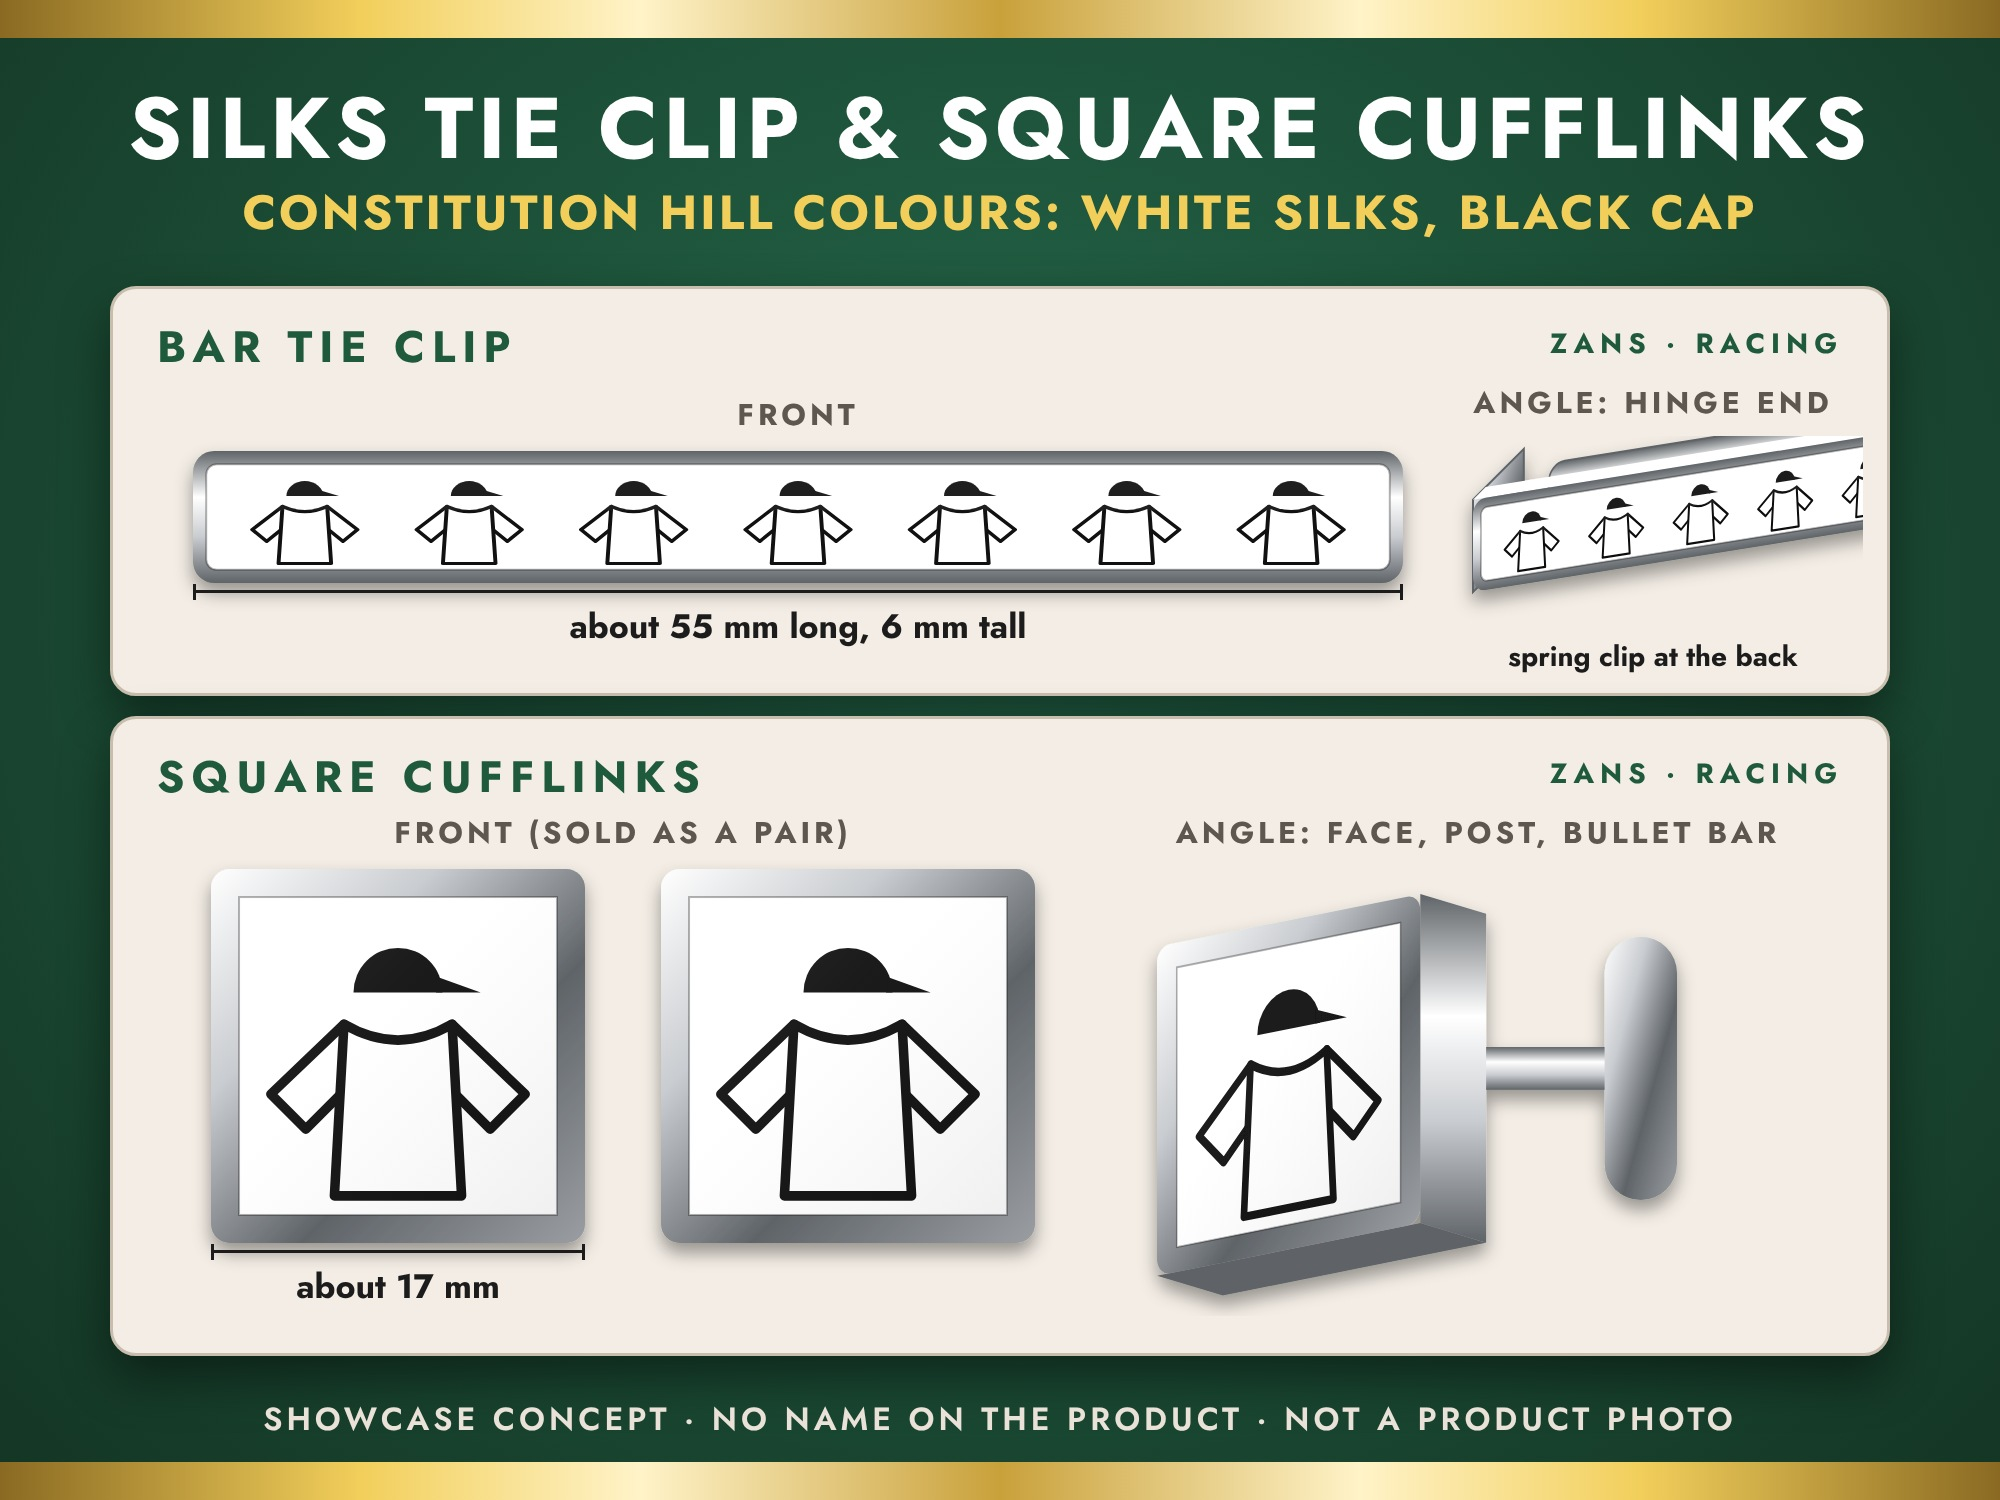
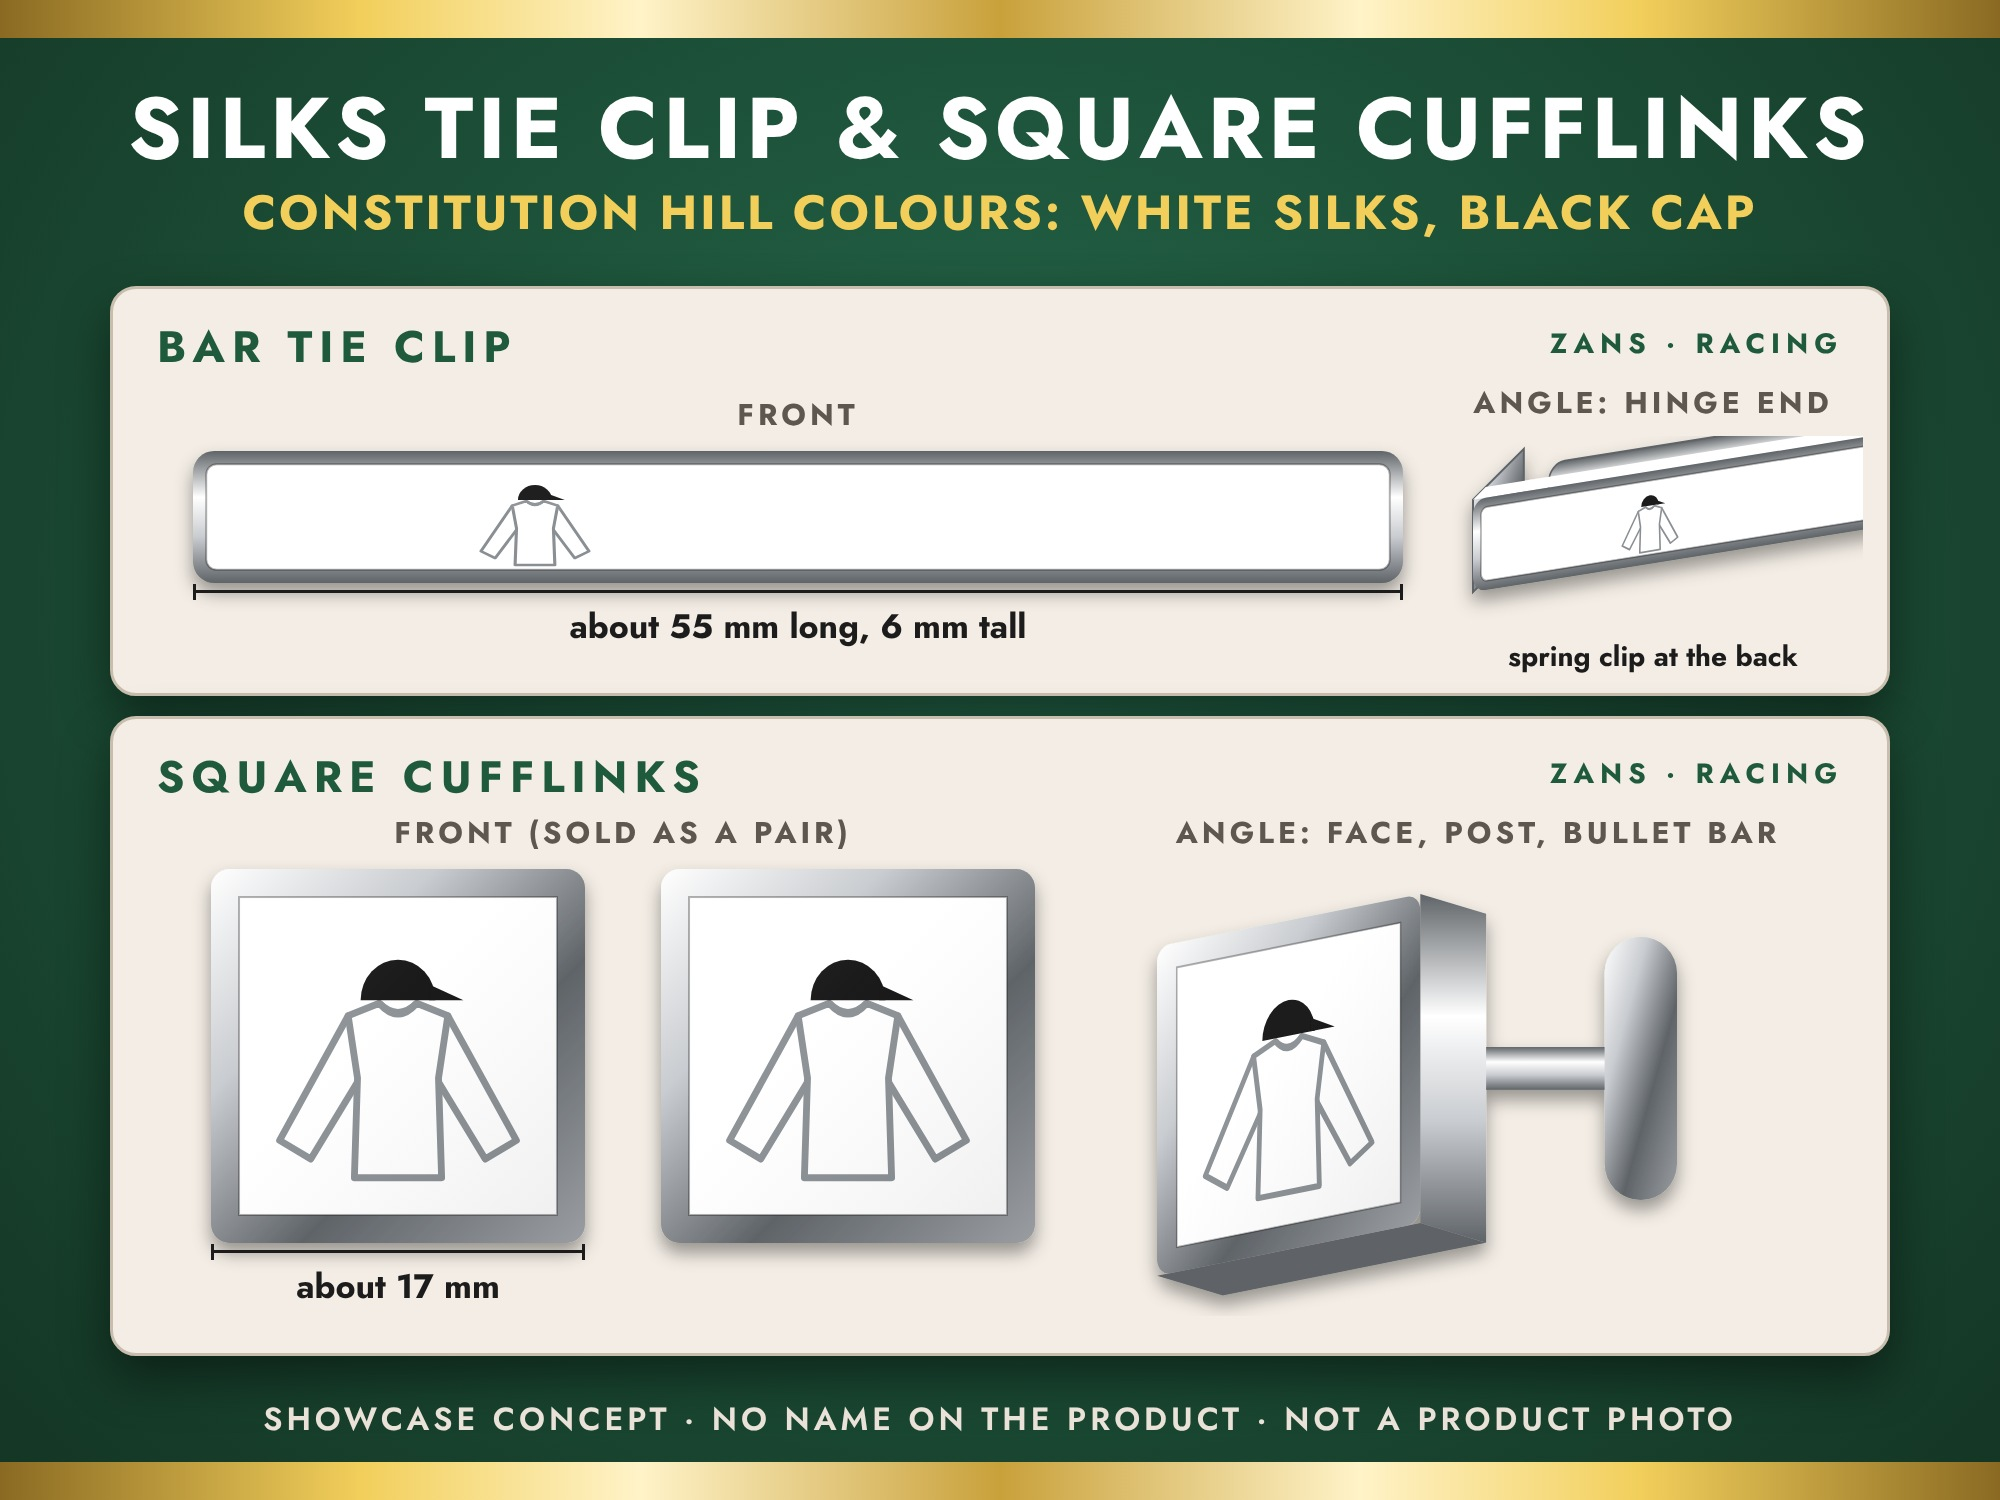
Constitution Hill motif redrawn as a long-sleeved silks jersey with skull cap; supplier sheet wording fixes
Claude-Session: https://claude.ai/code/session_012o9aG5DgvmXWZHsMc4KE4d

diff --git a/batch/2026-11-25/tie-pins-cufflinks/build_named.js b/batch/2026-11-25/tie-pins-cufflinks/build_named.js
@@ -12,7 +12,7 @@ const sq = { // square insert, 100 x 100
   diamonds: (a, b) => `<rect width="100" height="100" fill="${a}"/>` + [0, 1, 2, 3, 4].flatMap(r => [0, 1, 2, 3, 4].map(c => [c * 25 + (r % 2 ? 12.5 : 0), r * 25])).map(([x, y]) => `<path d="M${x} ${y - 11} L${x + 9} ${y} L${x} ${y + 11} L${x - 9} ${y} Z" fill="${b}"/>`).join(''),
   quartered: (a, b) => `<rect width="100" height="100" fill="${a}"/><rect width="50" height="50" fill="${b}"/><rect x="50" y="50" width="50" height="50" fill="${b}"/>`,
   bigspots: (a, b) => `<rect width="100" height="100" fill="${a}"/>` + [[25, 25], [75, 25], [50, 50], [25, 75], [75, 75], [0, 50], [100, 50], [50, 0], [50, 100]].map(([x, y]) => `<circle cx="${x}" cy="${y}" r="14" fill="${b}"/>`).join(''),
-  cap: (a, b) => `<rect width="100" height="100" fill="${a}"/><g fill="#fff" stroke="#111" stroke-width="3" stroke-linejoin="round"><path d="M33 40 L10 62 L21 73 L36 58 Z"/><path d="M67 40 L90 62 L79 73 L64 58 Z"/><path d="M33 40 Q50 50 67 40 L70 94 L30 94 Z"/></g><path d="M36 30 A14 14 0 0 1 64 30 Z" fill="#111"/><path d="M62 25 L76 30 L62 30 Z" fill="#111"/>`,
+  cap: (a, b) => `<rect width="100" height="100" fill="${a}"/><g transform="translate(50 54) scale(.98) translate(-50 -57)"><g fill="#fff" stroke="#8a8f94" stroke-width="2.2" stroke-linejoin="round"><path d="M34 40 L12 80 L22 86 L39 58 Z"/><path d="M66 40 L88 80 L78 86 L61 58 Z"/><path d="M34 40 L44 36 Q50 42 56 36 L66 40 L63 60 L64 92 L36 92 L37 60 Z"/><path d="M44 36 Q50 43 56 36" fill="none"/></g><path d="M38 35 A12 13 0 0 1 62 35 Z" fill="#111"/><path d="M60 30 L71 35 L60 35 Z" fill="#111"/></g>`,
   blank: () => `<rect width="100" height="100" fill="#f4f4f2"/>` };
 const bar = { // long bar face, 900 x 100: the same silks idea scaled to read on a slim bar
   stripes: (a, b) => `<rect width="900" height="100" fill="${a}"/><rect y="20" width="900" height="20" fill="${b}"/><rect y="60" width="900" height="20" fill="${b}"/>`,
@@ -22,9 +22,9 @@ const bar = { // long bar face, 900 x 100: the same silks idea scaled to read on
   diamonds: (a, b) => `<rect width="900" height="100" fill="${a}"/>` + [...Array(13)].map((_, i) => `<path d="M${i * 75} 12 L${i * 75 + 28} 50 L${i * 75} 88 L${i * 75 - 28} 50 Z" fill="${b}"/>`).join(''),
   quartered: (a, b) => `<rect width="900" height="100" fill="${a}"/><rect width="450" height="50" fill="${b}"/><rect x="450" y="50" width="450" height="50" fill="${b}"/>`,
   bigspots: (a, b) => `<rect width="900" height="100" fill="${a}"/>` + [...Array(10)].map((_, i) => `<circle cx="${45 + i * 90}" cy="50" r="27" fill="${b}"/>`).join(''),
-  cap: (a, b) => `<rect width="900" height="100" fill="${a}"/>` + [...Array(7)].map((_, i) => `<g transform="translate(${25 + i * 125} 0)"><g fill="#fff" stroke="#111" stroke-width="3" stroke-linejoin="round"><path d="M33 40 L10 62 L21 73 L36 58 Z"/><path d="M67 40 L90 62 L79 73 L64 58 Z"/><path d="M33 40 Q50 50 67 40 L70 94 L30 94 Z"/></g><path d="M36 30 A14 14 0 0 1 64 30 Z" fill="#111"/><path d="M62 25 L76 30 L62 30 Z" fill="#111"/></g>`).join(''),
+  cap: (a, b) => `<rect width="900" height="100" fill="${a}"/><g transform="translate(250 -4) scale(1.08 1.08) translate(-50 0)"><g fill="#fff" stroke="#8a8f94" stroke-width="2.2" stroke-linejoin="round"><path d="M34 40 L12 80 L22 86 L39 58 Z"/><path d="M66 40 L88 80 L78 86 L61 58 Z"/><path d="M34 40 L44 36 Q50 42 56 36 L66 40 L63 60 L64 92 L36 92 L37 60 Z"/><path d="M44 36 Q50 43 56 36" fill="none"/></g><path d="M38 35 A12 13 0 0 1 62 35 Z" fill="#111"/><path d="M60 30 L71 35 L60 35 Z" fill="#111"/></g>`,
   blank: () => `<rect width="900" height="100" fill="#f4f4f2"/>` };
-const D = [['L', 'bigspots', 'Lossiemouth colours: pink with green spots', '#F3B5C9', '#6CC24A'], ['F', 'hoops', 'Fact To File colours: green and gold hoops', '#0E8A4B', '#F2C40F'], ['C', 'cap', 'Constitution Hill colours: white silks, black cap', '#FFFFFF', '#111111']];
+const D = (process.argv[2] === 'C' ? [] : [['L', 'bigspots', 'Lossiemouth colours: pink with green spots', '#F3B5C9', '#6CC24A'], ['F', 'hoops', 'Fact To File colours: green and gold hoops', '#0E8A4B', '#F2C40F'], ['C', 'cap', 'Constitution Hill colours: white silks, black cap', '#FFFFFF', '#111111']]).concat(process.argv[2] === 'C' ? [['C', 'cap', 'Constitution Hill colours: white silks, black cap', '#FFFFFF', '#111111']] : []).filter((d, i, a) => a.findIndex(x => x[0] === d[0]) === i);
 let uid = 0; const defs = id => `<linearGradient id="${id}m" x1="0" y1="0" x2="1" y2="1"><stop offset="0" stop-color="${CH[2]}"/><stop offset=".3" stop-color="${CH[1]}"/><stop offset=".62" stop-color="${CH[0]}"/><stop offset="1" stop-color="${CH[3]}"/></linearGradient>
 <linearGradient id="${id}v" x1="0" y1="0" x2="0" y2="1"><stop offset="0" stop-color="${CH[0]}"/><stop offset=".35" stop-color="${CH[2]}"/><stop offset=".65" stop-color="${CH[1]}"/><stop offset="1" stop-color="${CH[0]}"/></linearGradient>
 <linearGradient id="${id}g" x1="0" y1="0" x2="1" y2="1"><stop offset="0" stop-color="#fff" stop-opacity=".12"/><stop offset=".4" stop-color="#fff" stop-opacity=".04"/><stop offset="1" stop-color="#000" stop-opacity=".06"/></linearGradient>

diff --git a/batch/2026-11-25/tie-pins-cufflinks/SUPPLIER-SHEET-PROPOSED.md b/batch/2026-11-25/tie-pins-cufflinks/SUPPLIER-SHEET-PROPOSED.md
@@ -5,20 +5,20 @@ Nothing ordered, no account opened, no spend. Every figure below needs checking 
 ## What we need from any supplier
 | Item | Our spec (from Alex's screenshots) | To confirm |
 |---|---|---|
-| Cufflinks | Square, polished chrome frame, flat printed square insert, bullet toggle back, sold as a pair | Outer size, printable insert size (mm and pixels), print method, gift box |
-| Tie clip | Slim silver bar with spring clip, printed front face end to end | Bar length and height, printable area, print method |
+| Cufflinks | Square, about 17 to 20 mm (PROPOSED), polished chrome frame, flat printed square insert, bullet toggle back, sold as a pair | Outer size, printable insert size (mm and pixels), print method, gift box |
+| Tie clip | Slim silver bar with spring clip, about 55 x 6 mm (PROPOSED), printed front face end to end | Bar length and height, printable area, print method |
 | Both | Full-colour print, no minimum order, UK made and UK posted | Unit price, UK postage, days to make, mock-up or template files, sample cost |
 
 ## Routes
 | Route | What it is | Seen in the search | Fits the rulebook? |
 |---|---|---|---|
 | A. Treatpod (UK print on demand) | The shop in Alex's cufflink screenshot. Prints and posts each order. | Not found in my search, so price and sizes UNKNOWN | Yes if UK made. Not Printify, so needs Alex's yes as a new provider. Do they do a bar tie clip? Unknown. |
-| B. Contrado (London) | Custom printed cufflinks, made to order in London | From about $29.95 a pair; artwork at 200 dpi | UK made. Price is high for our £-range. No tie clip seen. |
+| B. Contrado (London) | Custom printed cufflinks, made to order in London | Price UNVERIFIED (the search showed a US-dollar figure, $29.95; the UK £ price is not checked); artwork at 200 dpi | UK made. Price is high for our £-range. No tie clip seen. |
 | C. Buy blanks and print ourselves | Longforte: square chrome sublimation cufflink blanks with a printable aluminium insert | £2.25 ex VAT a pair | Cheapest, but Alex would need a sublimation printer and to make and post each one himself. Not print on demand. |
-| D. UK gift makers | e.g. a square photo cufflink and tie slide set | About £39.95 a set; cufflink 20 mm with an 18 mm insert | A finished retail product, not a supplier. Useful as a price and size guide only. |
+| D. UK gift makers | e.g. a square photo cufflink and tie slide set | About £39.95 a set; cufflink 20 mm with an 18 mm insert (PROPOSED, from one listing) | A finished retail product, not a supplier. Useful as a price and size guide only. |
 
 ## What this tells us
-- Real square cufflinks look to be about 20 mm with an 18 mm printed insert, a little bigger than the 17 mm in my drawings. I will redraw to the real size once a supplier is picked.
+- Real square cufflinks look to be about 20 mm (PROPOSED) with an 18 mm (PROPOSED) printed insert, a little bigger than the 17 mm (PROPOSED) in my drawings. I will redraw to the real size once a supplier is picked.
 - A retail set (cufflinks + tie clip) sells at roughly £40 to £47 in the UK, which suggests room for a ZANS price if the cost is right.
 - I found no UK print-on-demand supplier for a printed bar tie clip in this one search. That is the open risk: the cufflinks look easy to source, the tie clip may not be.
 

diff --git a/batch/2026-11-25/tie-pins-cufflinks/REVIEW-REQUEST-tie-pins-cufflinks.md b/batch/2026-11-25/tie-pins-cufflinks/REVIEW-REQUEST-tie-pins-cufflinks.md
@@ -70,3 +70,11 @@ LOSSIEMOUTH - pink with lime green spots, pink cap:
 - TW Business Magazine, Jun 2026, "a baby pink shirt (with lime green spots) and cap": https://twbusinessmagazine.com/local-business/from-the-winners-enclosure-to-the-vineyard/
 v4 already matches: #6CC24A kept, gloss toned down only.
 These are internal working sources; no site or owner is named on any image or post.
+
+## FIXES DONE - Constitution Hill v4 redraw + supplier sheet (25 Nov 2026, 09:50 UTC) - ADVICE 4c2a33c
+- [x] 1. Real silks jersey: long sleeves angled down and out, slim body, small collar, skull cap (round crown, short peak) sitting directly on the collar with no gap.
+- [x] 2. White fill, thin grey outline (#8a8f94), solid black cap.
+- [x] 3. Cufflink: one jersey + cap centred, about 70% of the insert height.
+- [x] 4. Bar: ONE jersey + cap at the left third, the rest plain white.
+- [x] Only the two Constitution Hill files and the contact sheet were rebuilt (`node build_named.js C`). File names unchanged (v4).
+- [x] Supplier sheet: Contrado's price marked UNVERIFIED (dollar figure from the search, £ not checked); "PROPOSED" added beside every mm figure.

diff --git a/STATUS-claude-code.md b/STATUS-claude-code.md
@@ -153,3 +153,6 @@ I have changed NOTHING in Metricool. Options for Alex (his yes needed, in my cha
 
 ## REVIEW REQUEST - named-horse tie clips and cufflinks v4 (25 Nov 2026, 09:35 UTC)
 Task 457152f done; ticked list and sources at the foot of `batch/2026-11-25/tie-pins-cufflinks/REVIEW-REQUEST-tie-pins-cufflinks.md`. Sources are search snippets (pages not openable here, no dates shown): please confirm dates from your side. Held from Alex until your check.
+
+## FIXES DONE - Constitution Hill v4 redraw + supplier sheet fixes (25 Nov 2026, 09:50 UTC)
+ADVICE 4c2a33c: all points ticked at the foot of `batch/2026-11-25/tie-pins-cufflinks/REVIEW-REQUEST-tie-pins-cufflinks.md`. Ready for re-check. Jonbon: still no answer from Alex in my chat; nothing changed.
